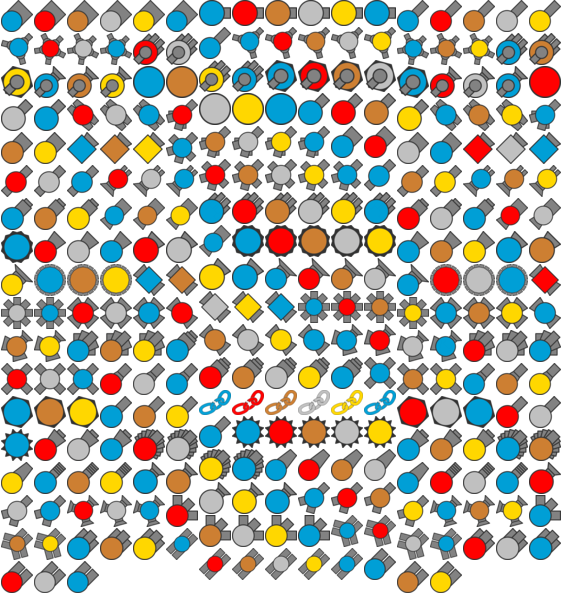
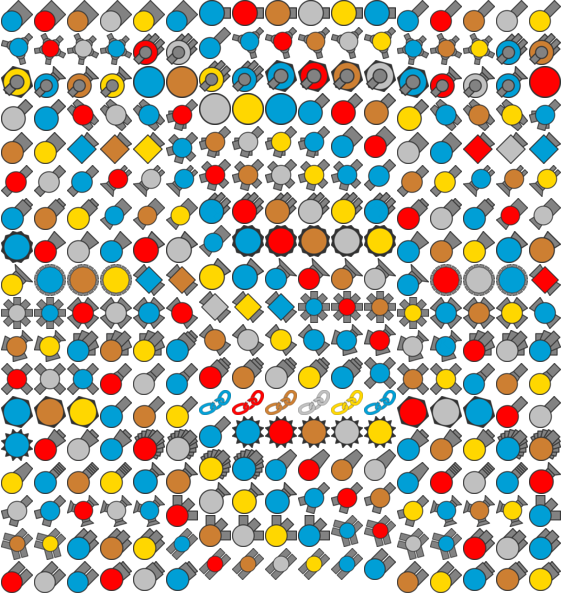
added unnamed tank image. Dev sadly doesn't want to give it a name

Changed region(s): [[0.1557, 0.9394, 0.3426, 1.0], [0.7785, 0.9394, 0.9654, 1.0]]

diff --git a/sunknightsapp/static/sunknightsapp/css/tanks.css b/sunknightsapp/static/sunknightsapp/css/tanks.css
@@ -59,8 +59,10 @@
 .triple-twin-tier5, .triple-twin, .triplet-tier1, .triplet-tier2, .triplet-tier3,
 .triplet-tier4, .triplet-tier5, .triplet, .twin-flank-tier1, .twin-flank-tier2,
 .twin-flank-tier3, .twin-flank-tier4, .twin-flank-tier5, .twin-flank, .twin-tier1,
-.twin-tier2, .twin-tier3, .twin-tier4, .twin-tier5, .twin
-{ display: inline-block; background: url('../image/tanks.png?2') no-repeat; overflow: hidden; text-indent: -9999px; text-align: left; }
+.twin-tier2, .twin-tier3, .twin-tier4, .twin-tier5, .twin,
+.unnamed-tank-tier1, .unnamed-tank-tier2, .unnamed-tank-tier3, .unnamed-tank-tier4, .unnamed-tank-tier5,
+.unnamed-tank
+{ display: inline-block; background: url('../image/tanks.png?3') no-repeat; overflow: hidden; text-indent: -9999px; text-align: left; }
 
 .annihilator-tier1 { background-position: -1px -0px; width: 32px; height: 32px; }
 .annihilator-tier2 { background-position: -34px -0px; width: 32px; height: 32px; }
@@ -362,3 +364,9 @@
 .twin-tier4 { background-position: -34px -561px; width: 32px; height: 32px; }
 .twin-tier5 { background-position: -430px -561px; width: 32px; height: 32px; }
 .twin { background-position: -67px -561px; width: 32px; height: 32px; }
+.unnamed-tank-tier1 { background-position: -463px -561px; width: 32px; height: 30px; }
+.unnamed-tank-tier2 { background-position: -100px -561px; width: 32px; height: 30px; }
+.unnamed-tank-tier3 { background-position: -496px -561px; width: 32px; height: 30px; }
+.unnamed-tank-tier4 { background-position: -133px -561px; width: 32px; height: 30px; }
+.unnamed-tank-tier5 { background-position: -529px -561px; width: 32px; height: 30px; }
+.unnamed-tank { background-position: -166px -561px; width: 32px; height: 30px; }
